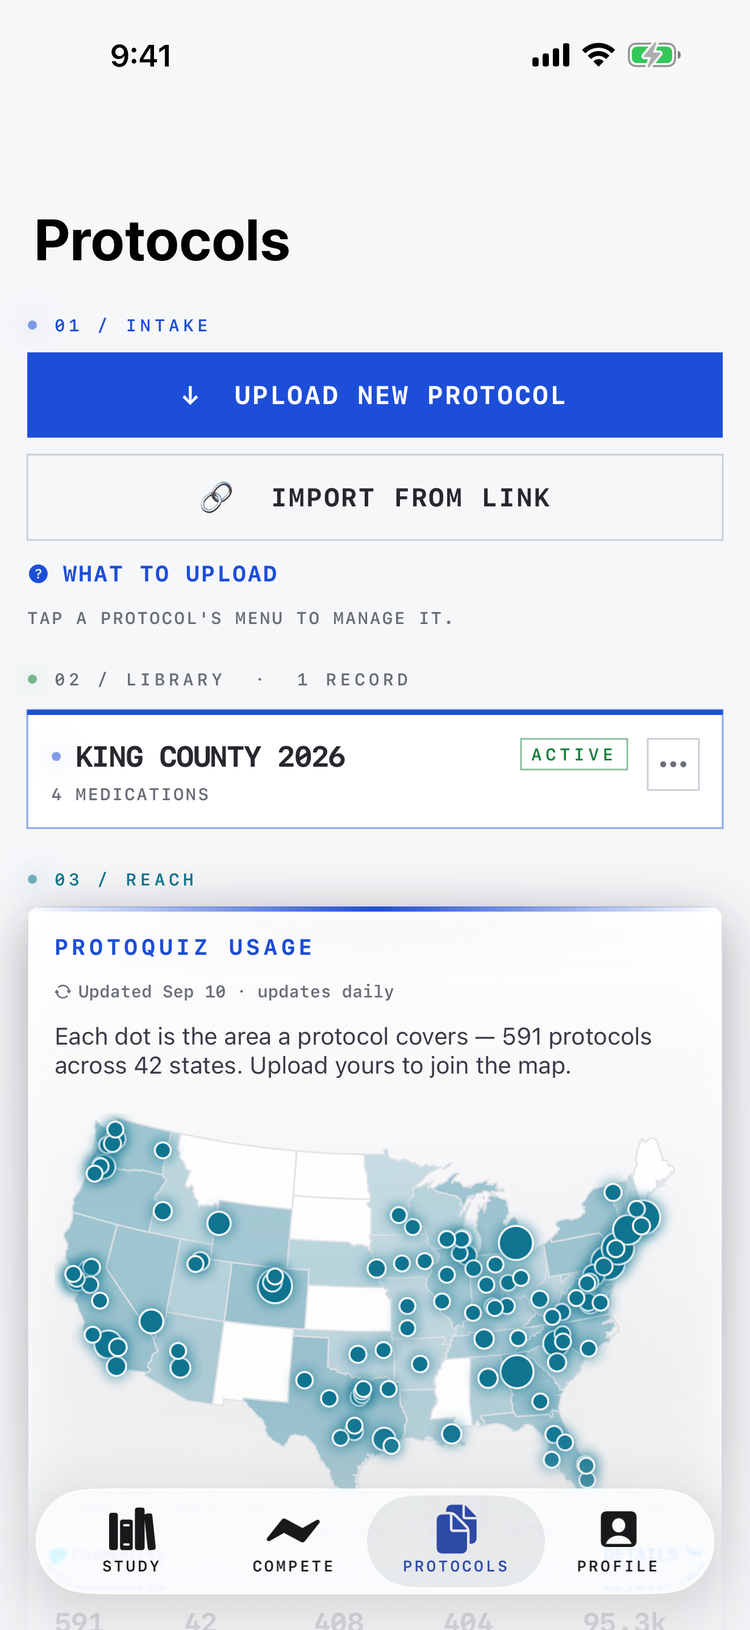
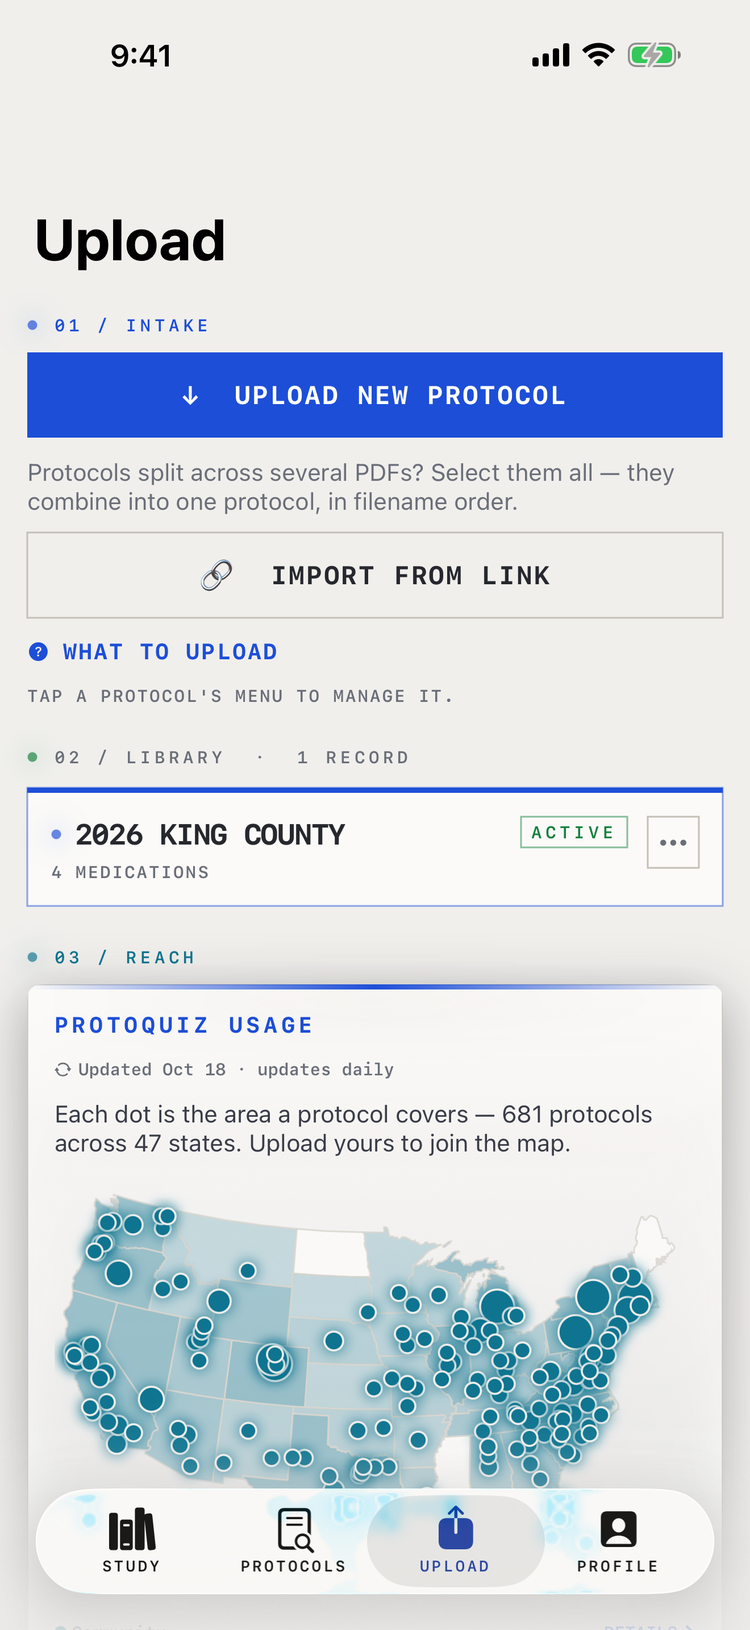
app page: refresh iOS shots to the current app (no Compete tab), add Protocol navigation and Ask AI, hide stale Android toggle
Claude-Session: https://claude.ai/code/session_01NDvMEPNuyk9MdhjjdwiH9w

diff --git a/app/index.html b/app/index.html
@@ -36,7 +36,7 @@
   <link rel="stylesheet" href="https://fonts.googleapis.com/css2?family=IBM+Plex+Mono:wght@400;500;600&family=Sora:wght@400;500;600;700;800&family=Source+Serif+4:opsz,wght@8..60,400;8..60,600&display=swap">
   <link rel="stylesheet" href="/assets/chrome.css?v=f5e22e65">
   <link rel="stylesheet" href="/assets/conveyor.css">
-  <link rel="stylesheet" href="/assets/app.css?v=81cb245a">
+  <link rel="stylesheet" href="/assets/app.css?v=78d3b7f6">
   <script>
     /* THE SHIFT IS RESOLVED BEFORE THE FIRST PAINT. app-toggle.js is deferred, so it
        runs after the page has already painted: a visitor who chose Day Shift saw the
@@ -115,7 +115,7 @@
 
         <div class="shot-col">
           <div class="toggles">
-            <div class="toggle" role="group" aria-label="Platform">
+            <div class="toggle" role="group" aria-label="Platform" hidden><!-- Android shots predate the current tabs; re-enable after a recapture -->
               <button type="button" data-set="platform:ios" aria-pressed="true"><svg width="13" height="13" viewBox="0 0 24 24" fill="currentColor" aria-hidden="true"><path d="M16.4 12.7c0-2.3 1.9-3.4 2-3.5-1.1-1.6-2.8-1.8-3.4-1.8-1.4-.1-2.8.9-3.5.9-.7 0-1.8-.9-3-.8-1.5 0-2.9.9-3.7 2.2-1.6 2.8-.4 6.9 1.1 9.1.8 1.1 1.7 2.3 2.9 2.3 1.2 0 1.6-.7 3-.7s1.8.7 3 .7c1.3 0 2.1-1.1 2.9-2.2.9-1.3 1.3-2.5 1.3-2.6 0 0-2.5-1-2.6-3.6zM14.2 5.9c.6-.8 1-1.9.9-3-.9 0-2.1.6-2.7 1.4-.6.7-1.1 1.8-1 2.9 1 .1 2.1-.5 2.8-1.3z"/></svg><span>iOS</span></button>
               <button type="button" data-set="platform:android" aria-pressed="false"><svg width="13" height="13" viewBox="0 0 24 24" fill="currentColor" aria-hidden="true"><path d="M17.6 9.5l1.4-2.4a.3.3 0 00-.5-.3L17 9.2a9.6 9.6 0 00-8.1 0L7.4 6.8a.3.3 0 00-.5.3l1.4 2.4A8.3 8.3 0 004 16h16a8.3 8.3 0 00-2.4-6.5zM8.5 13.4a.8.8 0 110-1.6.8.8 0 010 1.6zm7 0a.8.8 0 110-1.6.8.8 0 010 1.6z"/></svg><span>Android</span></button>
             </div>
@@ -606,8 +606,8 @@
         </div>
         <div class="step">
           <div class="step-num">03</div>
-          <h3>Quiz, learn, compete</h3>
-          <p>Pharmacology, algorithms, adaptive scenarios and spaced repetition on your own protocols.</p>
+          <h3>Quiz, learn, look it up</h3>
+          <p>Pharmacology, algorithms, adaptive scenarios and spaced repetition on your own protocols, plus contents, search and Ask AI over the same pages.</p>
         </div>
       </div>
     </section>
@@ -733,7 +733,7 @@
     </div>
   </footer>
   <!-- /shared-chrome:footer -->
-  <script src="/assets/app-toggle.js?v=5633e070" defer></script>
+  <script src="/assets/app-toggle.js?v=bcbbc740" defer></script>
   <script type="module">
     import { mountReach } from '/assets/reach-map.js?v=3308cb7d';
     for (const b of document.querySelectorAll('[data-map-view]')) b.addEventListener('click', () => {

diff --git a/assets/app-toggle.js b/assets/app-toggle.js
@@ -5,8 +5,8 @@
 // [data-shift] on <html> and every token in app.css is redefined, so the hero, the
 // chrome, the conveyor and the screenshots all move together.
 //
-// One screenshot could never show the app, so the phone cycles eight screens. Day and
-// night are the SAME eight in the same order, which is what makes the shift toggle
+// One screenshot could never show the app, so the phone cycles nine screens. Day and
+// night are the SAME nine in the same order, which is what makes the shift toggle
 // honest: you are comparing one screen against itself, not two unrelated ones.
 //
 // Night is the default: it is the app's own default and the look the live site
@@ -18,13 +18,14 @@
 
   const SCREENS = [
     ['study-hub',         'Study hub'],
-    ['protocols',         'Protocols'],
+    ['protocol-nav',      'Protocol navigation'],
+    ['ask-ai',            'Ask AI'],
+    ['protocols',         'Upload and library'],
     ['scenario',          'Scenario briefing'],
     ['spaced-repetition', 'Spaced repetition'],
     ['quiz-results',      'Quiz results'],
     ['algorithm-quiz',    'Algorithm quiz'],
     ['nremt',             'NREMT prep'],
-    ['compete',           'Compete'],
   ];
 
   const root = document.documentElement;

diff --git a/assets/app.css b/assets/app.css
@@ -64,6 +64,7 @@
   font-size: 10px; letter-spacing: 1.3px; text-transform: uppercase; font-weight: 500;
 }
 .toggle button:hover { color: var(--ink); }
+.toggle[hidden] { display: none; }
 .toggle button.on { background: var(--ink); color: var(--paper); }
 .toggle button.on.night { background: var(--night); color: var(--night-ink); }
 .dot { width: 8px; height: 8px; border-radius: 2px; display: block; }
